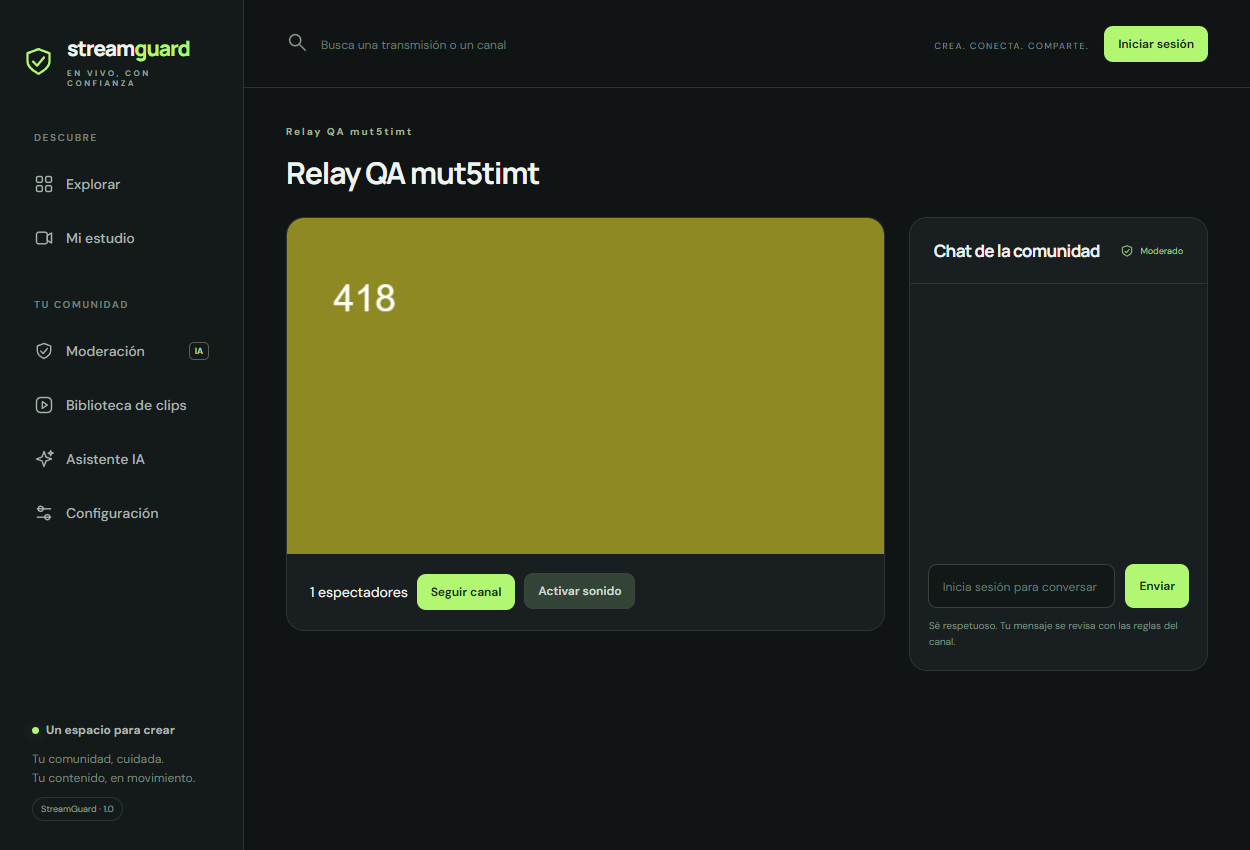
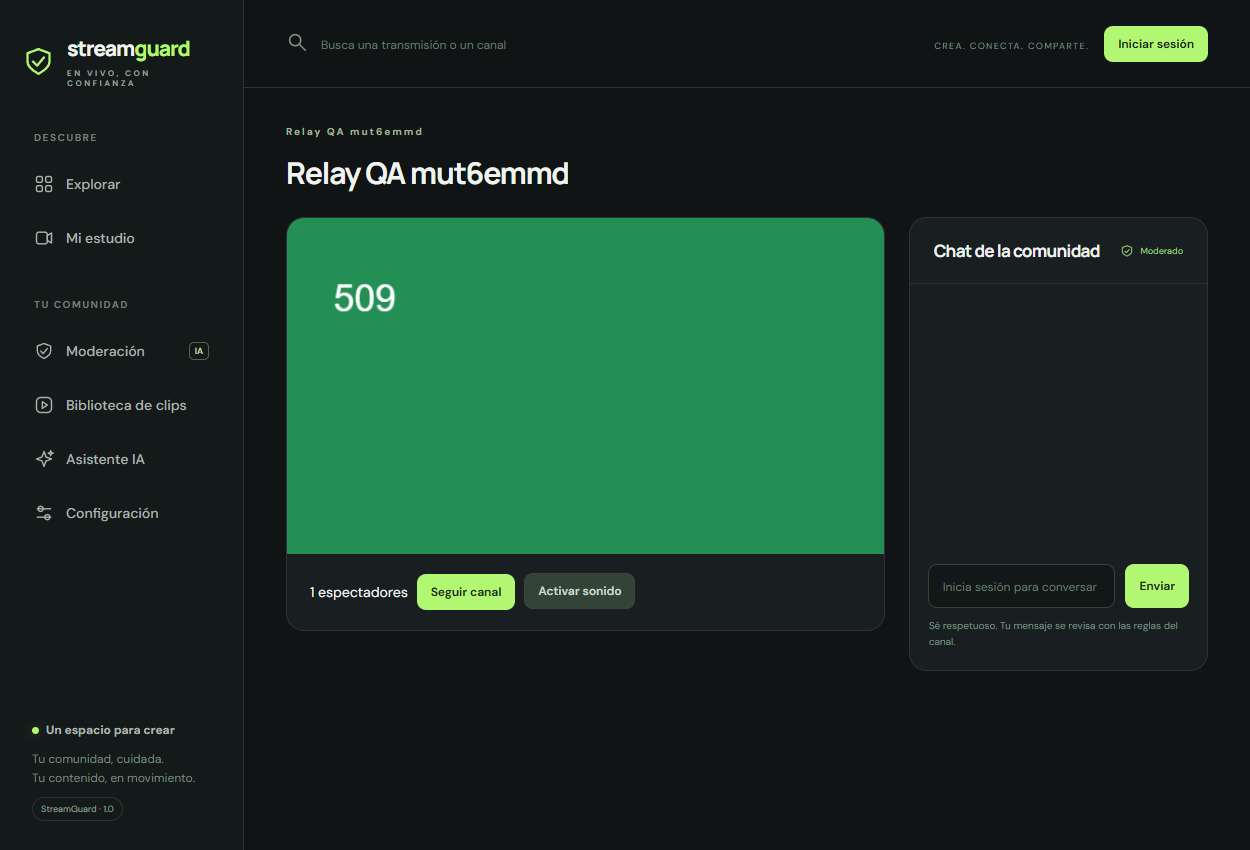
Record successful public relay playback on Vercel and Firebase

Changed region(s): [[0.2184, 0.2447, 0.7176, 0.6729], [0.3744, 0.1835, 0.468, 0.2141], [0.312, 0.1529, 0.3432, 0.1835]]

diff --git a/docs/PRUEBAS.md b/docs/PRUEBAS.md
@@ -57,3 +57,5 @@ Gemini permanece como alternativa y no se verificó con una clave real: esta ins
 Se añadieron cinco pruebas de `MediaRelayTest` para verificar que solo el propietario puede publicar, que un invitado puede recibir fragmentos, que se rechazan publicaciones de espectadores y fragmentos superiores a 1 MiB, que un directo finalizado deja de admitir video y que se respeta el límite de espectadores y la reconexión del propietario. Las 20 pruebas Java pasaron sin errores ni omisiones; cinco cubren la retransmisión, incluido un cierre tardío de la conexión anterior que no debe expulsar al propietario reconectado.
 
 `node scripts/relay-test.cjs` bloquea WebRTC deliberadamente (`iceTransportPolicy: relay`, sin servidores ICE) y exige video decodificado y en movimiento en un navegador invitado. Comprueba continuidad durante varios fragmentos, sonido activable, reconexión del emisor, entrada de un espectador posterior y finalización del directo. `TEST_CAPTURE=screen` usa una pantalla animada sintética con audio del sistema y micrófono sintéticos; exige que la mezcla tenga una sola pista de audio. Los resultados se guardan en `artifacts/relay-test-results.json` y la captura en `artifacts/relay-playback.png`. Para probar la versión publicada, configura `TEST_WEB_URL` con Vercel o Firebase y `TEST_API_URL` con Render. Este recorrido crea una cuenta y un canal de prueba, y finaliza su directo al terminar. La verificación evalúa la ruta real por el backend, sin depender de conectividad directa entre los navegadores.
+
+Las seis comprobaciones pasaron en las dos direcciones públicas, con el backend Java publicado en Render Free y sin TURN: `artifacts/relay-vercel-results.json` y `artifacts/relay-firebase-results.json`. La reproducción superó doce segundos y 300 fotogramas decodificados en cada recorrido, incluida la reconexión del emisor y la entrada de otro espectador. No se registraron errores JavaScript. Una primera ejecución detectó una interrupción durante la reconexión; se añadió la protección de reemplazo del propietario y ambos recorridos finales pasaron después de publicarla. Las pruebas utilizan dispositivos sintéticos; no sustituyen la verificación del permiso y del dispositivo físico del usuario.
